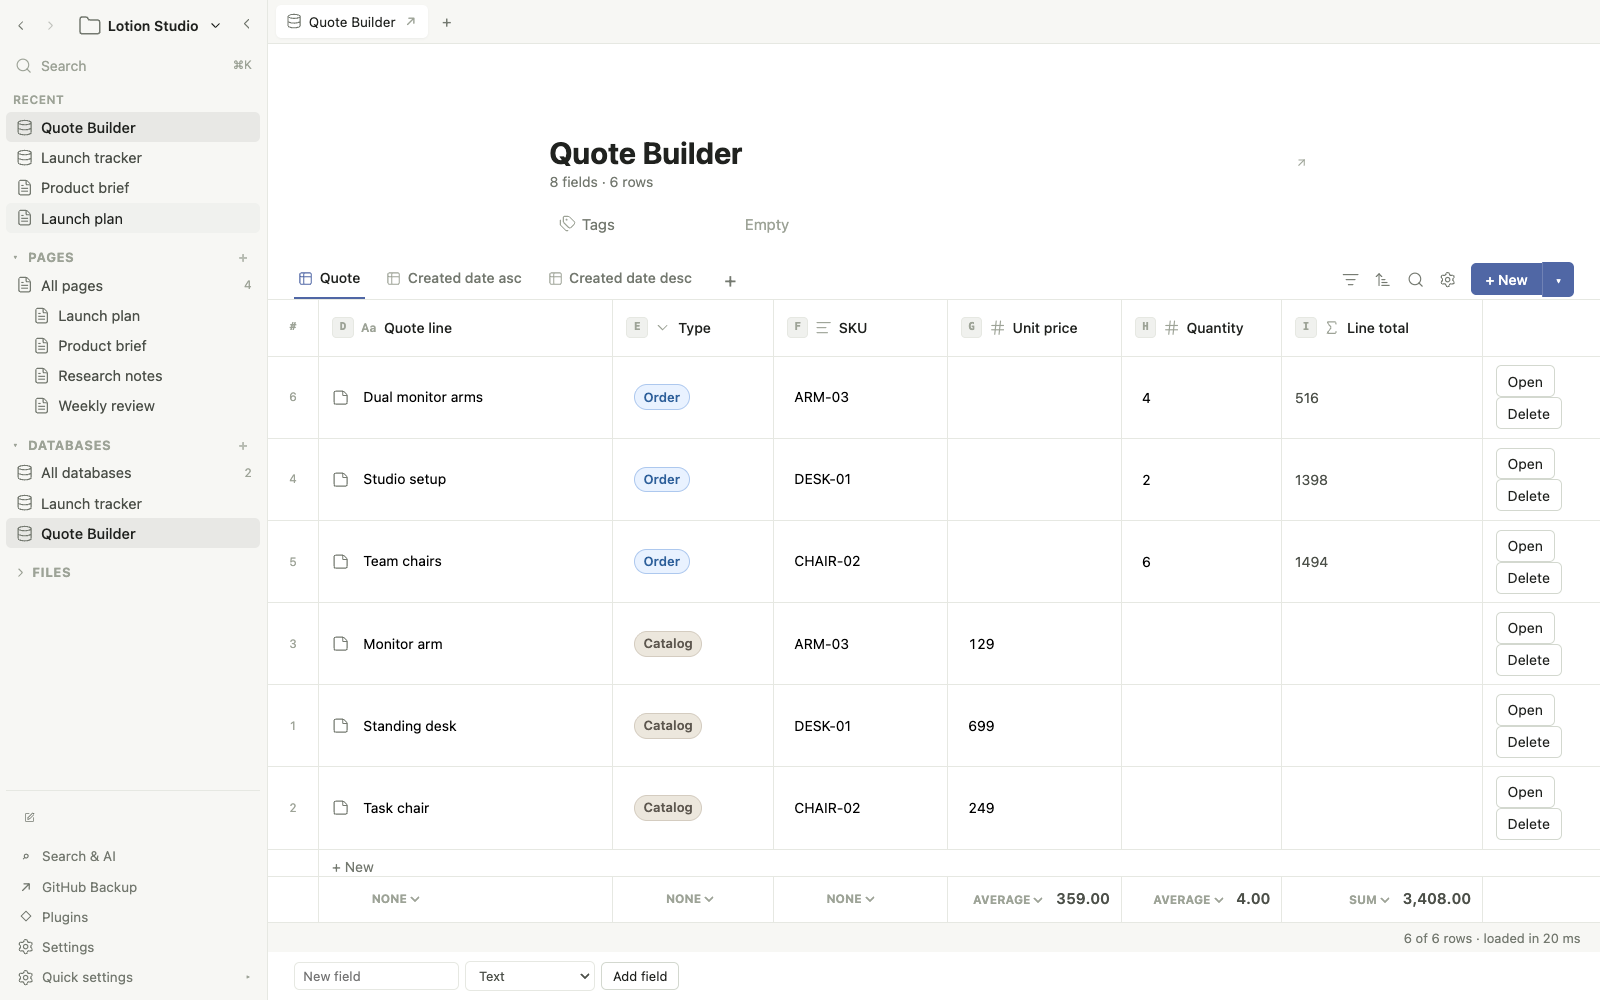
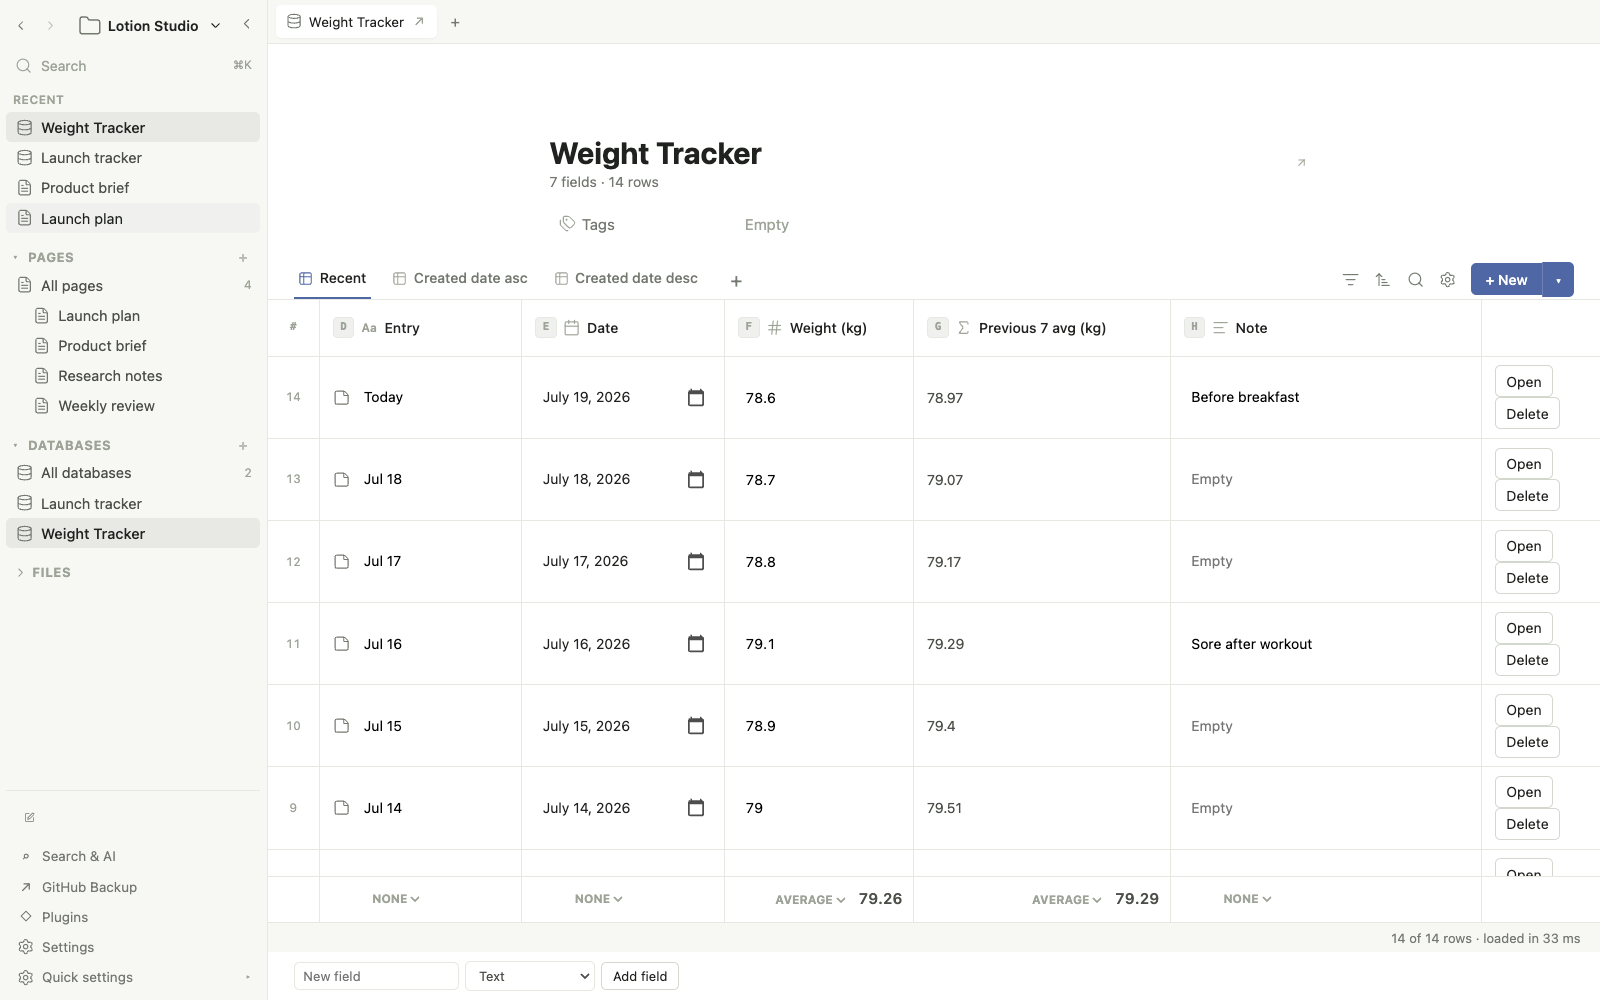
Simplify cross-row formulas with moving averages

diff --git a/src/shared/formula.ts b/src/shared/formula.ts
@@ -68,6 +68,8 @@ export function evaluateFormula(
       functions: {
         FIELD: (name) => readFormulaField(name, record, fields),
         VALUES: (name, fromRow, toRow) => readFormulaValues(name, fields, records, fromRow, toRow),
+        MOVING_AVERAGE: (name, windowSize, decimals) =>
+          movingAverageFormulaValue(name, fields, records, rowIndex, windowSize, decimals),
         LOOKUP: (needle, lookupField, resultField, fromRow, toRow) =>
           lookupFormulaValue(needle, lookupField, resultField, fields, records, fromRow, toRow)
       },
@@ -172,6 +174,37 @@ function lookupFormulaValue(
     if (String(record?.[lookupField.id] ?? "") === target) return record?.[resultField.id] ?? "";
   }
   return "#N/A";
+}
+
+function movingAverageFormulaValue(
+  fieldName: unknown,
+  fields: FieldSchema[],
+  records: DatabaseRecord[],
+  rowIndex: number,
+  windowSize: unknown,
+  decimals?: unknown
+): unknown {
+  const field = resolveFormulaField(fieldName, fields);
+  if (!field) return "#NAME?";
+  const requestedWindow = Number(unwrapFormulaArgument(windowSize));
+  if (!Number.isFinite(requestedWindow) || requestedWindow < 1) return "#VALUE!";
+  const window = Math.floor(requestedWindow);
+  if (rowIndex < window) return "";
+
+  const values = records
+    .slice(rowIndex - window, rowIndex)
+    .map((item) => item[field.id])
+    .filter((value) => value !== "" && value !== null && value !== undefined)
+    .map(Number)
+    .filter(Number.isFinite);
+  if (values.length !== window) return "";
+
+  const average = values.reduce((sum, value) => sum + value, 0) / window;
+  if (decimals === undefined) return average;
+  const requestedDecimals = Number(unwrapFormulaArgument(decimals));
+  if (!Number.isFinite(requestedDecimals)) return "#VALUE!";
+  const precision = Math.max(0, Math.min(12, Math.floor(requestedDecimals)));
+  return Number(average.toFixed(precision));
 }
 
 function resolveFormulaField(name: unknown, fields: FieldSchema[]): FieldSchema | undefined {

diff --git a/website/index.html b/website/index.html
@@ -119,32 +119,28 @@
 
       <section class="formula-story" id="formulas" aria-labelledby="formula-title">
         <div class="formula-story-copy">
-          <p class="eyebrow">Beyond row-scoped formulas</p>
-          <h2 id="formula-title">A Notion-like database that can think like a spreadsheet.</h2>
+          <p class="eyebrow">Rolling calculations across rows</p>
+          <h2 id="formula-title">Track today. Compare with the week before.</h2>
           <p>
-            Use direct cell ranges or stable field IDs to calculate across CSV
-            rows. Build a quote, financial model, inventory lookup, or scorecard
-            without creating helper databases and relations.
+            Record one weight each day. Lotion calculates the average of the
+            previous seven entries directly from the CSV, without a helper
+            database, relation, or rollup.
           </p>
-          <pre><code>=IF(record_type="Order",
-  LOOKUP(FIELD("sku"), "sku", "unit_price", 1, 3)
-  * quantity,
-  ""
-)</code></pre>
+          <pre><code>=MOVING_AVERAGE("weight_kg", 7, 2)</code></pre>
           <ul>
-            <li><strong>Spreadsheet-native</strong><span>A1 ranges, VLOOKUP, SUMIF, SUMPRODUCT, and other familiar functions.</span></li>
-            <li><strong>Schema-stable</strong><span>FIELD, VALUES, and LOOKUP use field IDs when coordinates are too fragile.</span></li>
-            <li><strong>View-safe</strong><span>Sorting, filtering, and dragging columns never silently retarget a formula.</span></li>
+            <li><strong>Previous seven</strong><span>The window reads the seven source rows before today's entry.</span></li>
+            <li><strong>Easy to read</strong><span>The field ID, window size, and precision are visible in one short formula.</span></li>
+            <li><strong>View-safe</strong><span>Showing newest first does not change which records belong to the window.</span></li>
           </ul>
         </div>
         <figure class="formula-story-visual">
           <img
             src="assets/lotion-formulas.png"
-            alt="Lotion quote builder using cross-row spreadsheet formulas over CSV records"
+            alt="Lotion weight tracker calculating the average of the previous seven CSV records"
             width="1600"
             height="1000"
           />
-          <figcaption>Orders are sorted first, while their displayed source row numbers continue to reference catalog rows 1–3.</figcaption>
+          <figcaption>The view shows newest entries first while source row numbers keep the rolling window stable.</figcaption>
         </figure>
       </section>
 
@@ -204,9 +200,9 @@
               role="tab"
               aria-selected="false"
               data-image="assets/lotion-formula-editor.png"
-              data-alt="Lotion formula editor with CSV coordinates and stable field references"
-              data-title="Spreadsheet formulas"
-              data-copy="Calculate across arbitrary CSV rows with A1 ranges or stable FIELD, VALUES, and LOOKUP references."
+              data-alt="Lotion moving-average formula editor with CSV coordinates and stable field references"
+              data-title="Moving averages"
+              data-copy="Calculate the previous seven entries with one readable formula, even when the view is sorted newest first."
             >
               Formulas
             </button>

diff --git a/src/renderer/lib/i18n.ts b/src/renderer/lib/i18n.ts
@@ -77,7 +77,7 @@ const EN = {
   "field.remove": "Remove",
   "field.formula": "Formula",
   "field.formulaHelper": "Column letters and row numbers follow CSV storage order. Sorting, filtering, and rearranging a view do not change formula references.",
-  "field.formulaStableHelper": "Use FIELD, VALUES, and LOOKUP with field IDs when references must survive schema changes.",
+  "field.formulaStableHelper": "Use FIELD, VALUES, LOOKUP, and MOVING_AVERAGE with field IDs when references must survive schema changes.",
   "field.formulaColumns": "Formula columns",
   "field.formulaExamples": "Examples",
   "field.formulaPreview": "Preview formula",
@@ -339,7 +339,7 @@ const ZH: Record<TranslationKey, string> = {
   "field.remove": "删除",
   "field.formula": "公式",
   "field.formulaHelper": "列字母和行号对应 CSV 的存储顺序。排序、筛选和调整视图列顺序不会改变公式引用。",
-  "field.formulaStableHelper": "需要引用在结构变化后仍然稳定时，请用 FIELD、VALUES 和 LOOKUP 搭配字段 ID。",
+  "field.formulaStableHelper": "需要引用在结构变化后仍然稳定时，请用 FIELD、VALUES、LOOKUP 和 MOVING_AVERAGE 搭配字段 ID。",
   "field.formulaColumns": "公式列坐标",
   "field.formulaExamples": "示例",
   "field.formulaPreview": "预览公式",

diff --git a/src/renderer/features/databases/FieldSettingsDialog.tsx b/src/renderer/features/databases/FieldSettingsDialog.tsx
@@ -261,7 +261,7 @@ export function FieldSettingsDialog({ field, fields = [], records = [], database
             <div className="formula-example-section">
               <strong>{t("field.formulaExamples")}</strong>
               <code>=SUM(E1:E100)</code>
-              <code>=LOOKUP(FIELD("sku"), "sku", "unit_price", 1, 3) * quantity</code>
+              <code>=MOVING_AVERAGE("weight_kg", 7, 2)</code>
               <code>=SUM(VALUES("line_total", 4, 100))</code>
             </div>
             <div className="formula-preview-row">

diff --git a/README.md b/README.md
@@ -126,17 +126,17 @@ or rollups to aggregate other records. Lotion can also treat the underlying CSV
 as a spreadsheet: formulas can address cells, ranges, and arbitrary source rows
 directly.
 
-This quote builder keeps a product catalog in source rows 1–3 and order lines
-below it. One formula looks up each order's SKU and calculates its total without
-creating another database or relation:
+This weight tracker stores one measurement per day. Starting with the eighth
+entry, one formula calculates the average of the previous seven source rows:
 
 ```text
-=IF(record_type="Order",LOOKUP(FIELD("sku"),"sku","unit_price",1,3)*quantity,"")
+=MOVING_AVERAGE("weight_kg", 7, 2)
 ```
 
-- `FIELD("sku")` reads a field from the current source row.
-- `VALUES("line_total", 4, 100)` returns a cross-row field range.
-- `LOOKUP(...)` searches one field and returns another field from the matched row.
+- `"weight_kg"` is the stable field ID to average.
+- `7` selects the seven source rows immediately before the current row.
+- `2` rounds the result to two decimal places.
+- The first seven entries stay empty until a complete window is available.
 - `A1`, `SUM(E1:E100)`, `VLOOKUP`, `SUMIF`, and other Excel-style expressions
   remain available when positional formulas are the better fit.
 
@@ -144,7 +144,7 @@ Sorting, filtering, and rearranging a view do not change source row numbers or
 formula coordinates. The table displays both coordinates, and formula settings
 map every column letter back to its stable field ID.
 
-![Lotion quote builder using cross-row spreadsheet formulas](website/assets/lotion-formulas.png)
+![Lotion weight tracker calculating the previous seven-entry average](website/assets/lotion-formulas.png)
 
 ![Lotion formula editor with source coordinates and stable field references](website/assets/lotion-formula-editor.png)
 